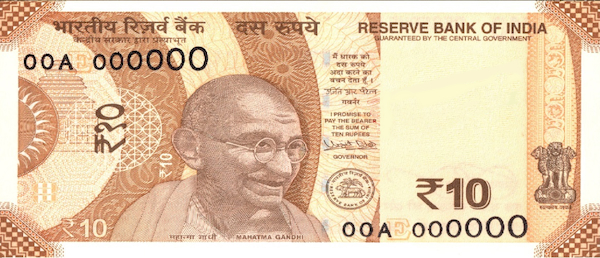
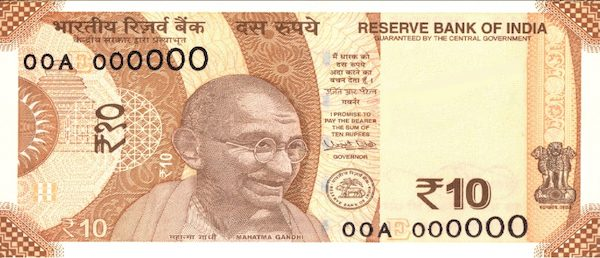
Recompress the note photographs
You swapped in cleaner crops while I was working and I pushed them without
looking, which I should not have done - they are fine, still RBI specimens with
000000 serials, and better images than the ones they replaced.

They were saved at near-lossless quality: 257KB for a 600x258 picture that is
never shown wider than about 130px. Dimensions are already right, so only the
compression changed. 516KB to 113KB across the three, which matters because
they are precached onto every device that installs the app.

Their aspect ratios are still wider than a real note (2.33 against 1.95 for the
ten), so object-fit stays `contain`.

Claude-Session: https://claude.ai/code/session_018KMyLyQmX2eqvAKw1GGCdQ

diff --git a/sw.js b/sw.js
@@ -2,7 +2,7 @@
 // network again, which is what makes it usable with no signal and guarantees
 // nothing can ever inject an ad into it.
 
-const CACHE = 'english-teach-v27';
+const CACHE = 'english-teach-v28';
 
 const ASSETS = [
   './',
